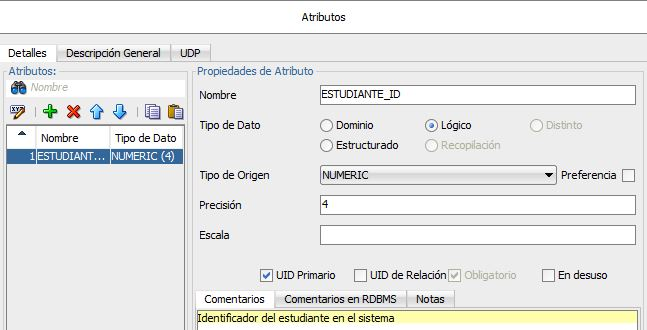
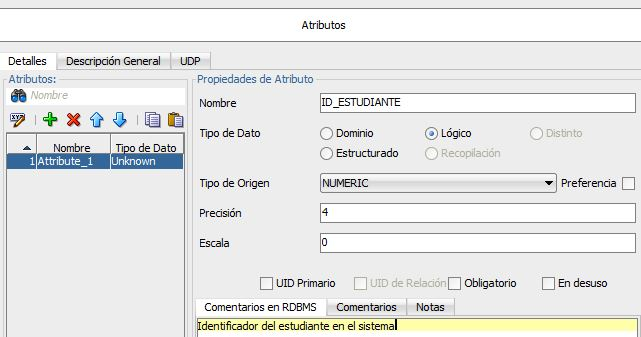
more guide corrections

diff --git a/README.md b/README.md
@@ -68,25 +68,32 @@ Al finalizar la guía, se espera que los estudiantes se encuentre en la capacida
     Si se selecciona un atributo como UID primario, este también será obligatorio. 
     No pueden existir dos registros distintos en esta tabla con igual valor en el atributo definido como UID.
 
-    A continuación se muestra un ejemplo de cómo se llenan los campos de un atributo llamado `ESTUDIANTE_ID` que es también la llave primaria de la entidad `ESTUDIANTE`. La figura X ilustra este ejemplo.
-    Primero, nombre y logic porque.... completar
-    Segundo, tipo de origen, numeric porque...
-    Tercero, opciones extra.  Supongamos que se desea  Como se desea almacenar alrededor de mil estudiantes.  Entonces la precisión es `4`  y la escala `0` porque una precisión de 4  con una escala de  de 0 permiten un máximo valor de 9999 sin cifras decimales.
-
-    Finalmente se selecciona la opción UIDPrimario 
-    Para agregar la clave primaria de la entidad Estudiante, ingresar en nombre `ESTUDIANTE_ID`, seleccionar la opción *Lógico* como tipo de dato y *NUMERIC* como tipo de origen, esto desplegará dos nuevas opciones las cuales son la *Precisión y Escala* del atributo. Este tipo de dato permite almacenar tanto números enteros como fraccionales, la precisión es el número total de dígitos desde el dígito más signficativo hasta el menos significativo, mientras que la escala es el número de dígitos desde la coma hacia el dígito menos significativo. 
+    A continuación se muestra un ejemplo de cómo se llenan los campos del atributo identificador de la entidad `ESTUDIANTE`, es decir, su llave primaria. La siguient efigura ilustra este ejemplo. 
 
     ![Alt text](images/EstudianteID.JPG?raw=true "ID Estudiante")
     
-   Existen atributos que pueden ser únicos pero no necesariamente obligatorios. *Pregunta: peroson claves? o tampoco?*.  Por ejemplo, el número de documento de identificación nacional (cédula) de un estudiante el cual es un atributo único para el sistema, pero no primario *Pregunta: único y/o obligatorio?*. 
-   Para agregar un identificador único se deben seguir los siguentes pasos que vamos a explicar con el ejemplo ilustrado en la figura *X*.
-   Primero se crea el atributo llenando el formulario del ejemplo anterior.  
-   Para crear el atributo  `CEDULA_ESTUDIANTE` se selecciona el tipo de origen *VARCHAR*.
-   El tipo de origen  *VARCHAR*  depliega los campos *Tamaño y Unidades* que quieren decir *completar*
-   Digite  `10` como tamaño y seleccione  *CHAR* en las unidades.  De esta forma,  estamos declarando que la `CEDULA_ESTUDIANTE` tendrá máximo 10 caracteres.
-   A continuación abra la pestaña *Identificadores Únicos* del frame de la izquierda.  En esta pestaña se muestran los atributos únicos de la entidad, aquí se encuentra ya el identificador primario previamente agregado. 
-   *Para hacer... lo que se quiera hacer con esta explicación* se debe .... Revisa esta explicación porque no pude seguir las instrucciones.
-   Seleccionar la opción '+' y hacer doble clic en el nuevo item que se agregó a la lista, lo cual despliega un submenú donde se debe agregar el atributo al identificador único haciendo clic sobre este y posteriormente en la flecha derecha, mostrando lo siguiente.
+    Los campos necesarios para un atributo son los siguientes:
+
+    * *Nombre*: Es el nombre del atributo, este debe ser lo más claro y completo posible. Como se desea agregar el identificador de la entidad Estudiante se sugiere ingresar `ID_ESTUDIANTE`.
+
+    * *Tipo de Dato*: Permite especificarle al atributo un dominio, un tipo lógico, dintinto, de colección o estructurado. Un dominio describe un conjunto de posibles valores para ciertos atributos añadiendo algunas restricciones, estos pueden ser creados por la herramienta. Sin embargo, como a cada dominio se le debe seleccionar finalmente un tipo lógico y buscando una mayor simplicidad para el desarrollo de esta guía, no se usarán los dominios y solo se usarán los tipos lógicos. Seleccionar *Lógico* tipo de dato de la entidad. 
+
+    * *Tipo de Origen*: Es la especificación del tipo de dato lógico del atributo, permite seleccionar gran variedad de tipos como lo son *Boolean, CHAR, BLOB, Datetime, Numeric,VARCHAR, entre otros*. El tipo de dato lógico sugerido para un identificador es numérico, esto debido a que permitirá posteriormente agregarle generadores de claves secuenciales a la base de datos, así como darle un orden de acuerdo a la creación de cada registro. Seleccionar *Numeric* como tipo de origen del atributo. Si desea conocer más sobre los tipos de datos de Oracle se recomienda visitar la página [*docs.oracle.com*](https://docs.oracle.com/cd/B28359_01/server.111/b28318/datatype.htm#CNCPT012).
+    
+    Al seleccionar el tipo de origen se puede observar que se habilitan nuevos campos dependiendo del tipo de origen que se seleccione, en este caso al seleccionar *Numeric* se habilitan las opciones *Presición y Escala*. Este tipo de dato permite almacenar tanto números enteros como fraccionales, la precisión es el número total de dígitos desde el dígito más signficativo hasta el menos significativo, mientras que la escala es el número de dígitos desde la coma hacia el dígito menos significativo. 
+    Supongamos que se desea  Como se desea almacenar alrededor de mil estudiantes.  Entonces la precisión es `4`  y la escala `0` porque esta precisión y escala permiten un máximo valor de 9999 sin cifras decimales.
+
+    Finalmente se selecciona la opción UIDPrimario para definir a este atributo como el identificador de la entidad.
+
+    Existen atributos que pueden ser únicos pero no necesariamente obligatorios. *Pregunta: peroson claves? o tampoco?*.  Por ejemplo, el número de documento de identificación nacional (cédula) de un estudiante el cual es un atributo único para el sistema, pero no primario *Pregunta: único y/o obligatorio?*. 
+    Para agregar un identificador único se deben seguir los siguentes pasos que vamos a explicar con el ejemplo ilustrado en la figura *X*.
+    Primero se crea el atributo llenando el formulario del ejemplo anterior.  
+    Para crear el atributo  `CEDULA_ESTUDIANTE` se selecciona el tipo de origen *VARCHAR*.
+    El tipo de origen  *VARCHAR*  depliega los campos *Tamaño y Unidades* que quieren decir *completar*
+    Digite  `10` como tamaño y seleccione  *CHAR* en las unidades.  De esta forma,  estamos declarando que la `CEDULA_ESTUDIANTE` tendrá máximo 10 caracteres.
+    A continuación abra la pestaña *Identificadores Únicos* del frame de la izquierda.  En esta pestaña se muestran los atributos únicos de la entidad, aquí se encuentra ya el identificador primario previamente agregado. 
+    *Para hacer... lo que se quiera hacer con esta explicación* se debe .... Revisa esta explicación porque no pude seguir las instrucciones.
+    Seleccionar la opción '+' y hacer doble clic en el nuevo item que se agregó a la lista, lo cual despliega un submenú donde se debe agregar el atributo al identificador único haciendo clic sobre este y posteriormente en la flecha derecha, mostrando lo siguiente.
 
     ![Alt text](images/EstudianteCedula.JPG?raw=true "Cedula Estudiante")
 
